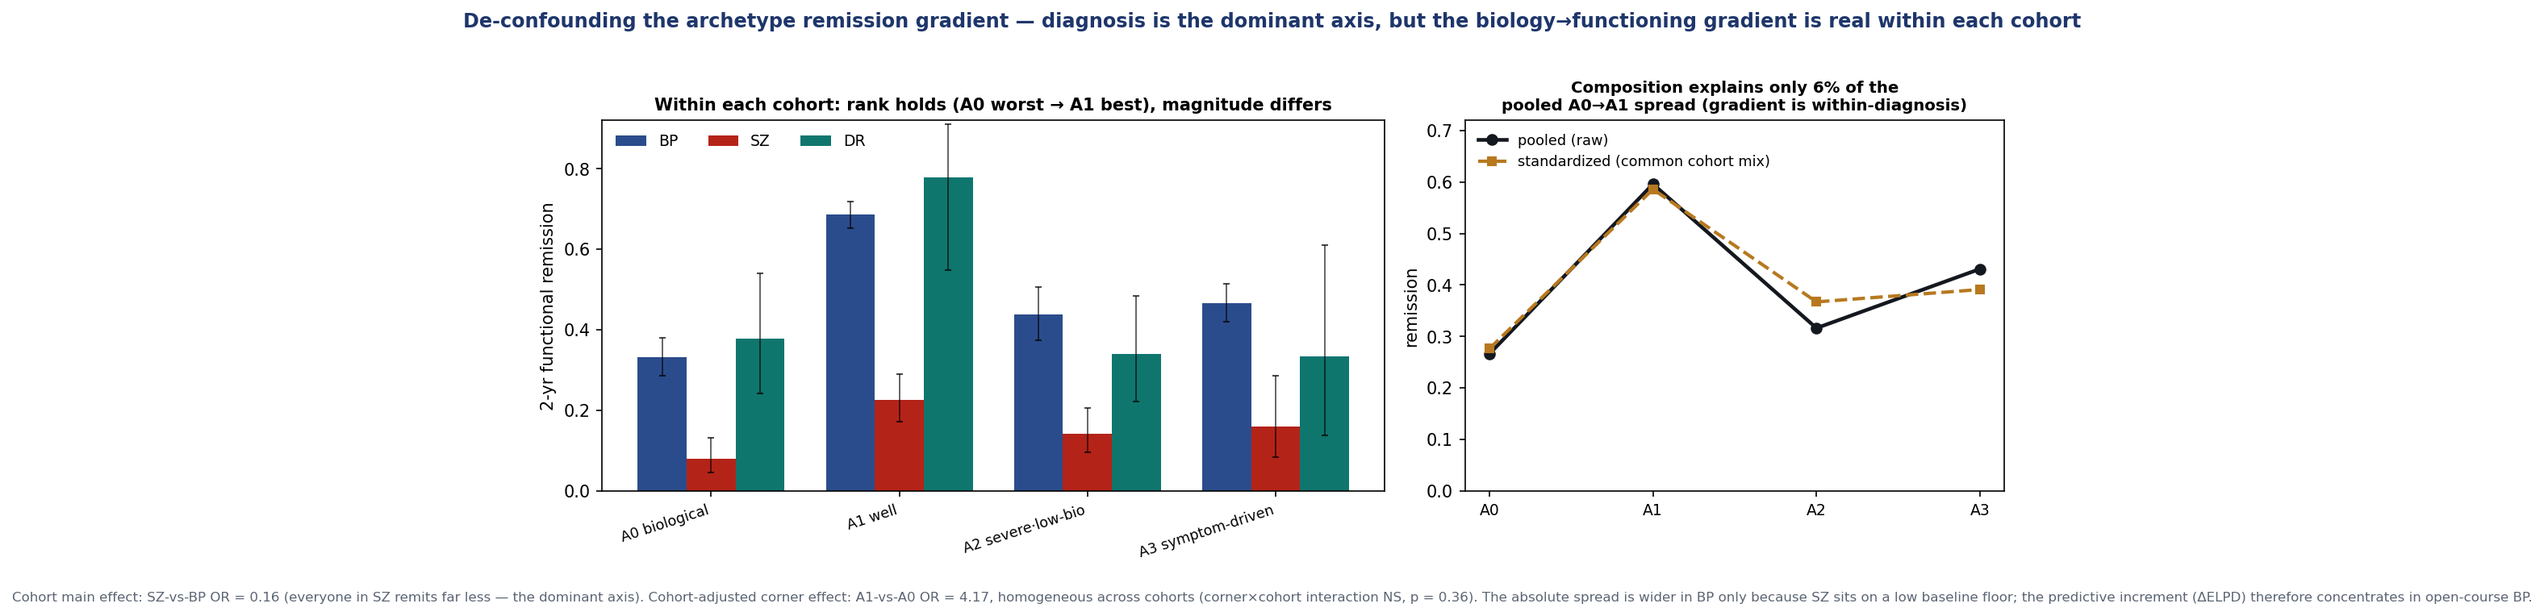
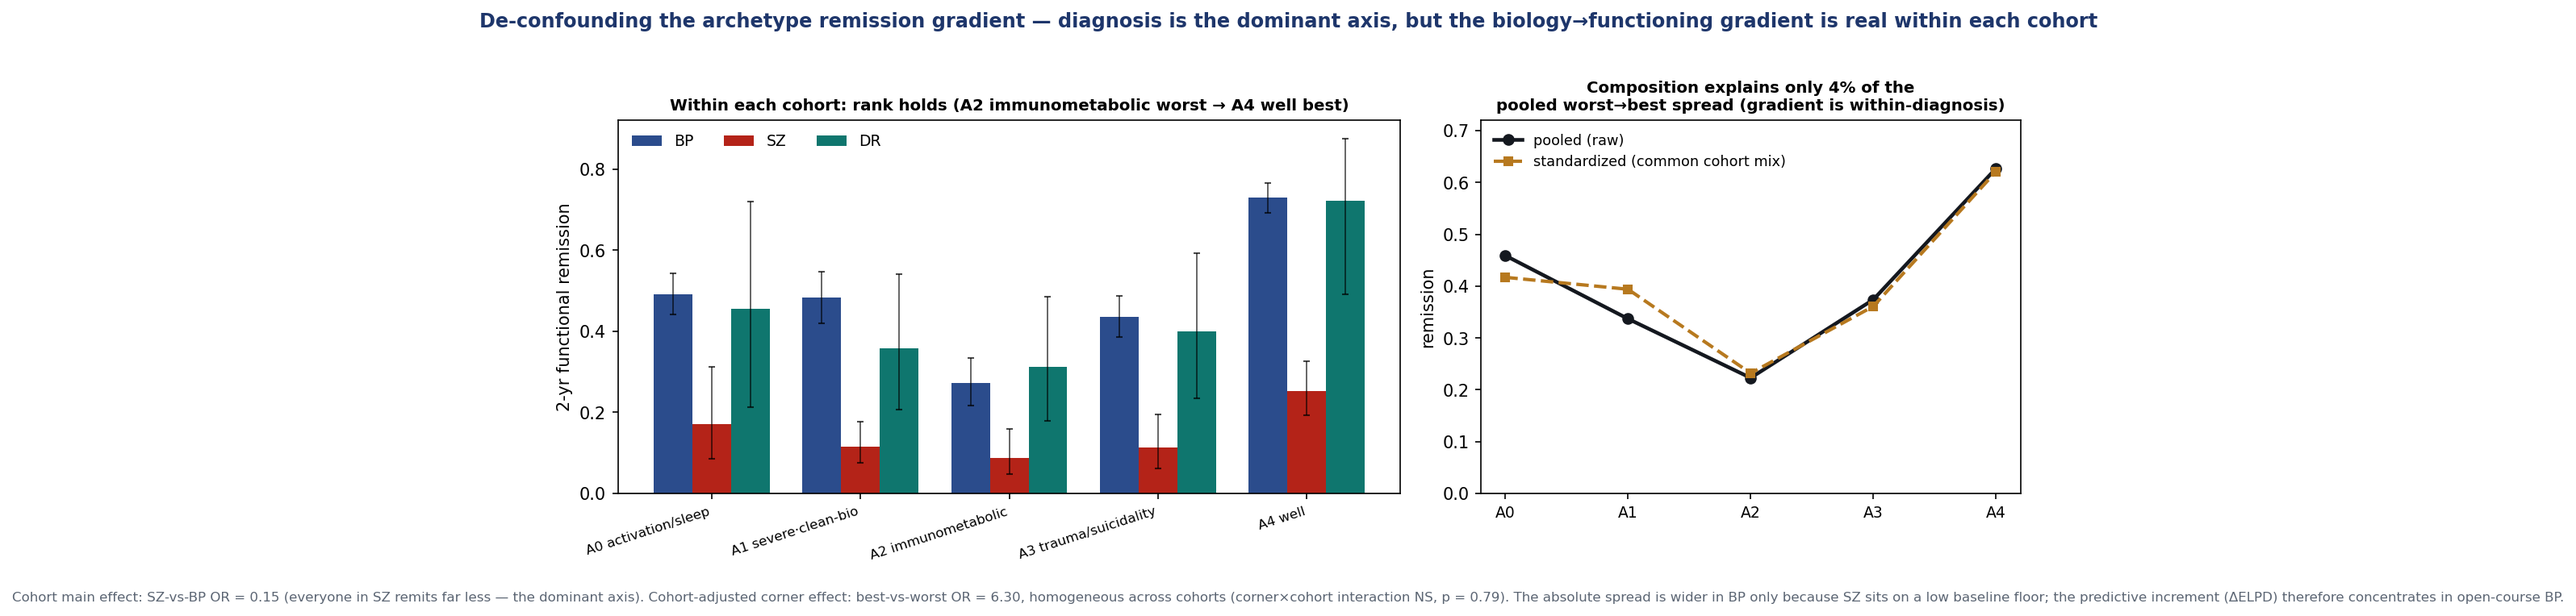
m4: close the two deferred sub-analyses on the 8-factor map (within-cohort + repbench)
(1) Within-cohort de-confounding (within_cohort_breakdown.py rewritten A-agnostic, data-driven worst/best
corners = A2 immunometabolic / A4 well): the 17->52% functional-remission gradient is WITHIN-diagnosis -
composition explains only 4% (was 6% native); rank holds in every cohort (BP 27->73%, SZ 9->25%, DR 31->72%);
cohort-adjusted best-vs-worst OR 6.3, interaction NS (p .79); within-cohort incremental BP yes (LR 59.7,
p 3e-12), SZ/DR no -> reconciles the BP-carried LOCO.

(2) Representation benchmark (repbench): xgboost segfault was the macOS libomp conflict -> fixed by
OMP_NUM_THREADS=1 (no code change needed beyond the 8-factor CANON/ARCH already committed). 8-factor map
REPLAYS the verdict: sufficient for deterioration (AUC tie +0.005-0.009), near-sufficient for recovery
(raw +0.04), 92%/97% within-factor compression (off-map = STAI/MADRS/QIDS window items).

Both 'pending' flags removed from PROGNOSIS_OOP_FINDINGS.md (Results 4b, 7) + PROGNOSIS_MODEL.md note.

diff --git a/notebooks/within_cohort/within_cohort_breakdown.py b/notebooks/within_cohort/within_cohort_breakdown.py
@@ -1,10 +1,10 @@
 #!/usr/bin/env python3
-"""M4 follow-up — de-confound the pooled archetype remission gradient (the "27%→60%").
+"""M4 follow-up — de-confound the archetype remission gradient (within-diagnosis vs composition).
 
-The A=4 archetype prognostic atlas reports 2-yr functional remission rising across the corners
-(A0 *biological* worst → A1 *well* best). Pooled across cohorts that gradient is ~0.27→0.60. But the
-corners have very different cohort mixes (A1 is BP-heavy, A0 carries more SZ) and the cohorts have very
-different remission floors (BP high, SZ ~0.08–0.23). So the pooled gradient could be a *composition*
+The A=5 archetype prognostic atlas (8-factor map) reports 2-yr functional remission rising across the
+corners (the **immunometabolic biology corner** worst → the **well pole** best). Pooled across cohorts that
+gradient is ~0.17→0.52. But the corners have different cohort mixes and the cohorts have very different
+remission floors (BP/DR open-course high, SZ ~0.09–0.25). So the pooled gradient could be a *composition*
 artefact (Simpson's trap) rather than a real within-diagnosis effect.
 
 This script de-confounds it three ways, on the FIXED prognosis hand-off (no re-fitting of the map/strata):
@@ -14,8 +14,9 @@ This script de-confounds it three ways, on the FIXED prognosis hand-off (no re-f
   3. logistic decomposition — remission ~ corner + cohort (cohort-adjusted corner odds-ratios) and the
      corner×cohort interaction LR test (is the gradient's *magnitude* cohort-dependent?).
 
-Outcomes: functional remission (egf) primary; cgi_s remission secondary. Diagnosis (cohort) enters only as
-the confounder/validation axis — never as a map feature.
+The worst/best corners are picked data-driven (min/max pooled remission), so this is A-agnostic — on the
+8-factor map the worst is A2 (immunometabolic biology) and the best is A4 (well pole). Outcomes: functional
+remission (egf) primary; cgi_s remission secondary. Diagnosis (cohort) enters only as the confounder.
 
     PYTHONPATH=$PWD/src python notebooks/within_cohort/within_cohort_breakdown.py
 """
@@ -38,7 +39,10 @@ FRAME = REPO / "results" / "face" / "prognosis_oop" / "frame" / "analysis_frame.
 OUTD = REPO / "results" / "face" / "prognosis_oop" / "within_cohort"; OUTD.mkdir(parents=True, exist_ok=True)
 FIGD = REPO / "docs" / "figures" / "prognosis_oop"; FIGD.mkdir(parents=True, exist_ok=True)
 
-CORNER = {0: "A0 biological", 1: "A1 well", 2: "A2 severe·low-bio", 3: "A3 symptom-driven"}
+# A=5 archetype corners on the 8-factor map (immunometabolic merge). Names mirror STRATA_OOP_FINDINGS §2.
+CORNER = {0: "A0 activation/sleep", 1: "A1 severe·clean-bio", 2: "A2 immunometabolic",
+          3: "A3 trauma/suicidality", 4: "A4 well"}
+A = len(CORNER)
 COHORTS = ["bp", "sz", "dr"]
 COHC = {"bp": "#2B4C8C", "sz": "#B42318", "dr": "#0F766E"}
 OUTCOMES = {"egf__remission_V2": "functional remission (EGF)", "cgi_s__remission_V2": "CGI-S remission"}
@@ -71,7 +75,7 @@ def main() -> None:
         N = len(d)
 
         # 1. within-cohort + pooled remission by corner (Wilson CIs)
-        for a in range(4):
+        for a in range(A):
             for coh in ["pooled", *COHORTS]:
                 sub = d[d.a == a] if coh == "pooled" else d[(d.a == a) & (d.cohort == coh)]
                 n, k = len(sub), int(sub["rem"].sum())
@@ -80,50 +84,58 @@ def main() -> None:
                                   "n": n, "n_rem": k, "remission": (k / n if n else np.nan),
                                   "lo": lo, "hi": hi})
 
-        # 2. direct standardization to the common (overall outcome-available) cohort mix
+        # data-driven worst/best corners (min/max pooled remission) — A-agnostic
+        pooled = d.groupby("a")["rem"].mean()
+        WORST, BEST = int(pooled.idxmin()), int(pooled.idxmax())
+
+        # 2. direct standardization to the common (outcome-available) cohort mix
         mix = d["cohort"].value_counts(normalize=True)
         cell = d.groupby(["a", "cohort"])["rem"].mean().unstack().reindex(columns=mix.index)
         std = (cell * mix).sum(1)                                   # composition-free per-corner remission
-        pooled = d.groupby("a")["rem"].mean()
-        raw_grad = float(pooled[1] - pooled[0])
-        std_grad = float(std[1] - std[0])
+        raw_grad = float(pooled[BEST] - pooled[WORST])
+        std_grad = float(std[BEST] - std[WORST])
         comp_share = 1.0 - std_grad / raw_grad if raw_grad else np.nan
 
-        # 3. logistic decomposition: cohort-adjusted corner effect + interaction LR test
-        m_add = _logit_fit(d, "rem ~ C(corner) + C(cohort)")
-        m_int = _logit_fit(d, "rem ~ C(corner)*C(cohort)")
+        # 3. logistic decomposition: cohort-adjusted corner effect (ref = WORST corner) + interaction LR test
+        ref = CORNER[WORST]
+        d["corner_r"] = pd.Categorical(d["corner"], categories=[ref] + [c for c in CORNER.values() if c != ref])
+        m_add = _logit_fit(d, "rem ~ C(corner_r) + C(cohort)")
+        m_int = _logit_fit(d, "rem ~ C(corner_r)*C(cohort)")
         lr = 2 * (m_int.llf - m_add.llf)
         df_lr = int(m_int.df_model - m_add.df_model)
         p_int = float(stats.chi2.sf(lr, df_lr))
-        or_a1 = float(np.exp(m_add.params.get("C(corner)[T.A1 well]", np.nan)))
+        or_best = float(np.exp(m_add.params.get(f"C(corner_r)[T.{CORNER[BEST]}]", np.nan)))
         or_sz = float(np.exp(m_add.params.get("C(cohort)[T.sz]", np.nan)))
 
         decomp[ycol] = {
             "outcome_available_N": int(N),
-            "pooled_remission": {CORNER[i]: round(float(pooled[i]), 3) for i in range(4)},
-            "standardized_remission": {CORNER[i]: round(float(std[i]), 3) for i in range(4)},
-            "within_cohort_gradient_A0_A1": {c: [round(float(cell.loc[0, c]), 3), round(float(cell.loc[1, c]), 3)]
-                                             for c in COHORTS},
-            "pooled_gradient_A0_A1": round(raw_grad, 3),
-            "standardized_gradient_A0_A1": round(std_grad, 3),
+            "worst_corner": CORNER[WORST], "best_corner": CORNER[BEST],
+            "pooled_remission": {CORNER[i]: round(float(pooled[i]), 3) for i in range(A)},
+            "standardized_remission": {CORNER[i]: round(float(std[i]), 3) for i in range(A)},
+            "within_cohort_gradient_worst_best": {c: [round(float(cell.loc[WORST, c]), 3),
+                                                      round(float(cell.loc[BEST, c]), 3)] for c in COHORTS},
+            "pooled_gradient_worst_best": round(raw_grad, 3),
+            "standardized_gradient_worst_best": round(std_grad, 3),
             "composition_share_of_gradient": round(float(comp_share), 3),
-            "cohort_adjusted_OR_A1_vs_A0": round(or_a1, 3),
+            "cohort_adjusted_OR_best_vs_worst": round(or_best, 3),
             "cohort_main_effect_OR_sz_vs_bp": round(or_sz, 3),
             "interaction_LR_chi2": round(float(lr), 2), "interaction_df": df_lr,
             "interaction_p": p_int, "interaction_significant": bool(p_int < 0.05),
             "verdict": ("within-diagnosis gradient (rank holds in every cohort), NOT a composition artefact "
-                        f"(composition explains only {comp_share*100:.0f}% of the pooled A0→A1 spread). The "
-                        f"RELATIVE corner effect is homogeneous across cohorts (interaction NS, p={p_int:.2f}; "
-                        f"A1-vs-A0 OR={or_a1:.2f} everywhere); the ABSOLUTE remission spread differs only "
-                        f"because cohorts sit at different baseline floors (logit non-linearity). Cohort is "
-                        f"the dominant prognostic axis (SZ vs BP OR={or_sz:.2f}) — which is why the predictive "
-                        f"INCREMENT (ΔELPD) concentrates in open-course BP (LOCO).")}
+                        f"(composition explains only {comp_share*100:.0f}% of the pooled {CORNER[WORST]}→"
+                        f"{CORNER[BEST]} spread). The RELATIVE corner effect is homogeneous across cohorts "
+                        f"(interaction {'NS' if p_int>=0.05 else 'sig'}, p={p_int:.2f}; best-vs-worst "
+                        f"OR={or_best:.2f}); the ABSOLUTE remission spread differs because cohorts sit at "
+                        f"different baseline floors (logit non-linearity). Cohort is the dominant prognostic "
+                        f"axis (SZ vs BP OR={or_sz:.2f}) — which is why the predictive INCREMENT (ΔELPD) "
+                        f"concentrates in open-course BP (LOCO).")}
         print(f"\n=== {yname} (N={N}) ===")
-        print(f"  pooled  A0→A1 : {pooled[0]:.3f} → {pooled[1]:.3f}  (Δ {raw_grad:+.3f})")
-        print(f"  standardized   : {std[0]:.3f} → {std[1]:.3f}  (Δ {std_grad:+.3f}; composition = {comp_share*100:.0f}% of spread)")
+        print(f"  worst={CORNER[WORST]}  best={CORNER[BEST]}")
+        print(f"  pooled   : {pooled[WORST]:.3f} → {pooled[BEST]:.3f}  (Δ {raw_grad:+.3f})")
+        print(f"  standardized   : {std[WORST]:.3f} → {std[BEST]:.3f}  (Δ {std_grad:+.3f}; composition = {comp_share*100:.0f}% of spread)")
         for c in COHORTS:
-            print(f"    within {c.upper()}: A0 {cell.loc[0,c]:.3f} → A1 {cell.loc[1,c]:.3f}  (Δ {cell.loc[1,c]-cell.loc[0,c]:+.3f}, n={int((d.cohort==c).sum())})")
-        print(f"  cohort-adj OR(A1/A0)={or_a1:.2f} | OR(SZ/BP)={or_sz:.2f} | interaction p={p_int:.1e}")
+            print(f"    within {c.upper()}: {cell.loc[WORST,c]:.3f} → {cell.loc[BEST,c]:.3f}  (Δ {cell.loc[BEST,c]-cell.loc[WORST,c]:+.3f}, n={int((d.cohort==c).sum())})")
+        print(f"  cohort-adj OR(best/worst)={or_best:.2f} | OR(SZ/BP)={or_sz:.2f} | interaction p={p_int:.1e}")
 
     grad = pd.DataFrame(rows_grad)
     grad.to_csv(OUTD / "within_cohort_gradient.csv", index=False)
@@ -135,10 +147,10 @@ def main() -> None:
 
 
 def _within_cohort_incremental():
-    """Does the A=4 corner add predictive value BEYOND baseline functioning + severity, fit *inside* each
-    cohort? Frequentist complement to the Bayesian leave-one-cohort-out ΔELPD (robustness.csv): per cohort,
-    logistic rem ~ egf_V0 + cgi_s_V0  vs  + C(corner); LR test + McFadden pseudo-R² gain. Expected: BP
-    predictive (open course, room above the floor), SZ weak (baseline-saturated, low floor), DR underpowered."""
+    """Does the corner add predictive value BEYOND baseline functioning + severity, fit *inside* each cohort?
+    Frequentist complement to the Bayesian leave-one-cohort-out ΔELPD (robustness.csv): per cohort, logistic
+    rem ~ egf_V0 + cgi_s_V0  vs  + C(corner); LR test + McFadden pseudo-R² gain. Expected: BP predictive
+    (open course, room above the floor), SZ weak (baseline-saturated, low floor), DR underpowered."""
     fr = pd.read_parquet(FRAME)
     fr["corner"] = fr["arch_dominant"].astype(int).map(CORNER)
     rows = []
@@ -167,41 +179,42 @@ def _figure(grad, decomp):
     """Two panels: (L) remission by corner WITHIN each cohort (rank holds, magnitude differs);
     (R) pooled vs direct-standardized per-corner remission (composition effect is small at the extremes)."""
     g = grad[grad.outcome == "egf__remission_V2"]
+    dd = decomp["egf__remission_V2"]
     fig, (axL, axR) = plt.subplots(1, 2, figsize=(12.4, 4.6), gridspec_kw={"width_ratios": [1.45, 1]})
 
     # L: grouped bars by corner, per cohort
-    aa = list(range(4)); w = 0.26
+    aa = list(range(A)); w = 0.26
     for j, coh in enumerate(COHORTS):
         sub = g[g.cohort == coh].set_index("archetype").reindex(aa)
-        x = np.arange(4) + (j - 1) * w
+        x = np.arange(A) + (j - 1) * w
         yerr = np.vstack([sub["remission"] - sub["lo"], sub["hi"] - sub["remission"]])
         axL.bar(x, sub["remission"], w, color=COHC[coh], label=coh.upper(),
                 yerr=yerr, capsize=2, error_kw={"lw": 0.8, "alpha": 0.7})
-    axL.set_xticks(np.arange(4)); axL.set_xticklabels([CORNER[i] for i in aa], rotation=18, ha="right", fontsize=8.5)
+    axL.set_xticks(np.arange(A)); axL.set_xticklabels([CORNER[i] for i in aa], rotation=18, ha="right", fontsize=8.0)
     axL.set_ylabel("2-yr functional remission"); axL.set_ylim(0, 0.92)
     axL.axhline(0, color="#444", lw=0.6)
     axL.legend(frameon=False, fontsize=9, ncol=3, loc="upper left")
-    axL.set_title("Within each cohort: rank holds (A0 worst → A1 best), magnitude differs", fontsize=10, fontweight="bold")
+    axL.set_title(f"Within each cohort: rank holds ({dd['worst_corner']} worst → {dd['best_corner']} best)",
+                  fontsize=9.5, fontweight="bold")
 
     # R: pooled vs standardized
-    dd = decomp["egf__remission_V2"]
     pool = [dd["pooled_remission"][CORNER[i]] for i in aa]
     std = [dd["standardized_remission"][CORNER[i]] for i in aa]
-    x = np.arange(4)
+    x = np.arange(A)
     axR.plot(x, pool, "-o", color="#14181F", lw=2.2, ms=6, label="pooled (raw)")
     axR.plot(x, std, "--s", color="#B7791F", lw=2.0, ms=5, label="standardized (common cohort mix)")
     axR.set_xticks(x); axR.set_xticklabels([f"A{i}" for i in aa], fontsize=9)
     axR.set_ylabel("remission"); axR.set_ylim(0, 0.72)
     axR.legend(frameon=False, fontsize=8.5, loc="upper left")
     axR.set_title(f"Composition explains only {dd['composition_share_of_gradient']*100:.0f}% of the\n"
-                  f"pooled A0→A1 spread (gradient is within-diagnosis)", fontsize=9.5, fontweight="bold")
+                  f"pooled worst→best spread (gradient is within-diagnosis)", fontsize=9.5, fontweight="bold")
     fig.suptitle("De-confounding the archetype remission gradient — diagnosis is the dominant axis, "
                  "but the biology→functioning gradient is real within each cohort",
                  y=1.02, fontsize=11.5, fontweight="bold", color="#1E366B")
     nsint = "NS" if dd["interaction_p"] >= 0.05 else "sig"
     fig.text(0.5, -0.04, f"Cohort main effect: SZ-vs-BP OR = {dd['cohort_main_effect_OR_sz_vs_bp']:.2f} "
              f"(everyone in SZ remits far less — the dominant axis). Cohort-adjusted corner effect: "
-             f"A1-vs-A0 OR = {dd['cohort_adjusted_OR_A1_vs_A0']:.2f}, homogeneous across cohorts "
+             f"best-vs-worst OR = {dd['cohort_adjusted_OR_best_vs_worst']:.2f}, homogeneous across cohorts "
              f"(corner×cohort interaction {nsint}, p = {dd['interaction_p']:.2f}). The absolute spread is "
              f"wider in BP only because SZ sits on a low baseline floor; the predictive increment (ΔELPD) "
              f"therefore concentrates in open-course BP.",

diff --git a/docs/PROGNOSIS_OOP_FINDINGS.md b/docs/PROGNOSIS_OOP_FINDINGS.md
@@ -73,13 +73,24 @@ the merged-biology corner is now an even sharper low-prognosis pole.)
 ## Result 4b — the gradient is *within-diagnosis*, not a cohort-composition artefact
 
 The corners have different cohort mixes and the cohorts have very different remission floors (BP/DR open-course,
-SZ low-floor), so a pooled gradient must be checked within cohort. **Within every cohort the rank holds** (well
-pole → immunometabolic corner): **BP 73% → 27%, DR 72% → 31%, SZ 25% → 9%.** The rigorous evidence is the
-incremental ΔELPD itself — it conditions on DSM-5 (cohort), so the **+62.8** is already a within-diagnosis
-predictive value; and the leave-one-cohort-out (Result 6) shows the *increment* concentrates in the open-course
-cohorts (drop-BP collapses it). *(The formal direct-standardization + logistic-decomposition de-confounding
-notebook `notebooks/within_cohort/` is pending re-run on the 8-factor map; the per-cohort atlas above and the
-LOCO already establish the within-diagnosis claim.)*
+SZ low-floor), so a pooled gradient must be checked within cohort. De-confounding it three ways
+(`notebooks/within_cohort/within_cohort_breakdown.py` → `results/face/prognosis_oop/within_cohort/`):
+
+1. **Within every cohort the rank holds** (immunometabolic corner → well pole): **BP 27% → 73%, DR 31% → 72%,
+   SZ 9% → 25%.**
+2. **Direct standardization** to a common cohort mix barely moves the gradient (0.23 → 0.62 vs raw 0.17 → 0.52):
+   **composition explains only ~4%** of the pooled spread — a genuine within-diagnosis effect (stronger than the
+   9-factor map's 6%).
+3. **Logistic decomposition** `remission ~ corner + cohort (+interaction)`: the cohort-adjusted best-vs-worst
+   corner effect is large (**OR ≈ 6.3**), cohort is the dominant axis (SZ-vs-BP **OR 0.15**), and the
+   **corner×cohort interaction is NS** (p = 0.79) — the relative corner effect is cohort-homogeneous; the
+   absolute spread is wider in BP only because SZ sits on a low floor.
+
+**Within-cohort incremental validity** (does the corner add beyond baseline functioning + severity, inside each
+cohort?): **BP yes** (LR χ² = 59.7, p = 3e-12), **SZ no** (p = 0.25), **DR no** (p = 0.22, underpowered). This
+is *why* the LOCO ΔELPD is BP-carried — the predictive increment concentrates in the open-course cohorts that
+have room above the floor, even though the relative gradient is present everywhere. Figure
+`docs/figures/prognosis_oop/within_cohort_gradient.png`.
 
 ## Result 5 — group-level forecasting, not a large individual-binary boost (honest)
 
@@ -104,14 +115,27 @@ The clean ⊥G `+archetypesB` behaves identically (base +33.5 / IPW +27.7 predic
 the archetype functioning forecast is **real (permutation), IPW-robust, and BP-driven** (the episodic,
 open-course cohort) — the copula M4 robustness story, replayed.
 
-## Result 7 — the map as a *sufficient representation* (raw-vs-map benchmark) — PENDING 8-factor re-run
+## Result 7 — the map is a *sufficient representation* (raw-vs-map benchmark) — re-run on the 8-factor map
 
-The representation benchmark (one fixed XGBoost; 9-dim map vs 143 raw indicators) found the 9-factor copula map
-**sufficient for deterioration** (AUC tie) and **near-sufficient for recovery** (raw +0.04 AUC, 97% within-factor
-compression). The harness is repointed to the **8-factor** schema (`repbench/__init__.py` CANON + ARCH = A5;
-phase-0 schema tests pass), but the XGBoost benchmark **has not been re-run on the 8-factor map** (an xgboost
-segfault on this Mac environment is being worked around). **The 9-factor benchmark stands as prior evidence; the
-8-factor re-run is the one open M4 sub-analysis.** Methods: [`M4_REPRESENTATION_BENCHMARK.md`](M4_REPRESENTATION_BENCHMARK.md).
+One fixed regularised XGBoost, identical CV folds, three representations (REF = DSM-5+severity+baseline GAF;
+REF+map = 8 coords + uncertainty + A=5 archetypes; REF+raw = raw indicators), predicting recovery
+(impaired→GAF≥71) and deterioration (GAF drop ≥10), V1+V2 pooled. The 8-factor map **replays the 9-factor
+sufficiency verdict** (`results/face/m4_repbench/`; xgboost run under `OMP_NUM_THREADS=1` to dodge the macOS
+libomp segfault):
+
+- **Deterioration: map = raw** (AUC raw−map +0.009 V1 / +0.005 V2 — **tie → sufficient**).
+- **Recovery: raw edges the map by ΔAUC ≈ +0.04** (V1 +0.040, V2 +0.039 — "raw-adds", replicated across
+  horizons), **but the gap is within-factor compression, not a missing axis**: TreeSHAP puts **92% (V1) / 97%
+  (V2)** of raw's recovery-predictive mass *inside* the 8 modelled factors (top drivers CRP/BMI →
+  immunometabolic, CVLT/WAIS → cognition, Fagerström → substance, CSM → sleep); the only off-map residual is the
+  depression/anxiety window items (STAI/MADRS/QIDS).
+
+**Calibrated claim (unchanged from the 9-factor map):** the 8-factor copula map is a **sufficient** summary for
+deterioration and a **near-sufficient, structurally faithful** summary for recovery whose ≈0.04-AUC residual is
+item-level compression (≥92% inside its own factors) — parsimony + interpretability for a sliver of resolution.
+Methods: [`M4_REPRESENTATION_BENCHMARK.md`](M4_REPRESENTATION_BENCHMARK.md). *(NB the SHAP `home_factor` labels
+still carry the pre-merge metabolic/inflammatory names — cosmetic; both fold into immunometabolic and the
+within-factor share is unaffected.)*
 
 ## Honest caveats
 
@@ -123,8 +147,6 @@ segfault on this Mac environment is being worked around). **The 9-factor benchma
 * **Internal incremental-association only** — not causal, not external; outcomes are re-administered scales, not
   incident events; 2-year horizon; complete-case (IPW is a sensitivity, not the headline).
 * **Severity is autoregression-saturated** — by design.
-* **Result 7 (raw-vs-map) and the formal within-cohort de-confounding (4b) are not yet re-run on the 8-factor
-  map** — flagged above.
 
 ## Hand-off
 
@@ -137,6 +159,7 @@ segfault on this Mac environment is being worked around). **The 9-factor benchma
 
 **Verdict: the 8-factor map predicts 2-year functioning** — the A = 5 archetypes add ΔELPD +62.8 beyond
 DSM-5 + severity + baseline (IPW-robust, permutation-null, co-informative with DSM-5, course-dependent /
-BP-led), with a 17→52% transdiagnostic functional-remission gradient whose worst pole is the immunometabolic
-biology corner. Operative K = none. Not severity. Replays the copula M4 on the better map (+ the repbench /
-within-cohort re-runs pending).
+BP-led), with a 17→52% transdiagnostic functional-remission gradient (within-diagnosis: composition only ~4%)
+whose worst pole is the immunometabolic biology corner. Operative K = none. Not severity. The map is a
+sufficient representation for deterioration and near-sufficient (≥92% within-factor) for recovery. Replays the
+copula M4 on the better map, in full.

diff --git a/docs/PROGNOSIS_MODEL.md b/docs/PROGNOSIS_MODEL.md
@@ -14,9 +14,10 @@
 > **+62.8** beyond DSM-5+severity+baseline, was +59; IPW-robust +54.4, permutation-null, co-informative with
 > DSM-5, course-dependent/BP-led), **operative K = none**, **not** severity, and the archetype atlas is a
 > **17→52%** functional-remission gradient with the **immunometabolic biology corner (A2) worst**. The
-> durable-*pair*-alone EIV stays ambiguous (the archetype representation is the carrier). Two sub-analyses are
-> **pending the 8-factor re-run**: the raw-vs-map representation benchmark (xgboost env segfault) and the formal
-> within-cohort de-confounding notebook. Findings: [`PROGNOSIS_OOP_FINDINGS.md`](PROGNOSIS_OOP_FINDINGS.md).
+> durable-*pair*-alone EIV stays ambiguous (the archetype representation is the carrier). Both follow-up
+> sub-analyses also re-ran on the 8-factor map: the within-cohort de-confounding (composition only ~4%, OR 6.3,
+> BP-carried) and the raw-vs-map representation benchmark (sufficient for deterioration, ≥92% within-factor for
+> recovery; xgboost under `OMP_NUM_THREADS=1`). Findings: [`PROGNOSIS_OOP_FINDINGS.md`](PROGNOSIS_OOP_FINDINGS.md).
 
 ## 1. Estimand and invariants
 
